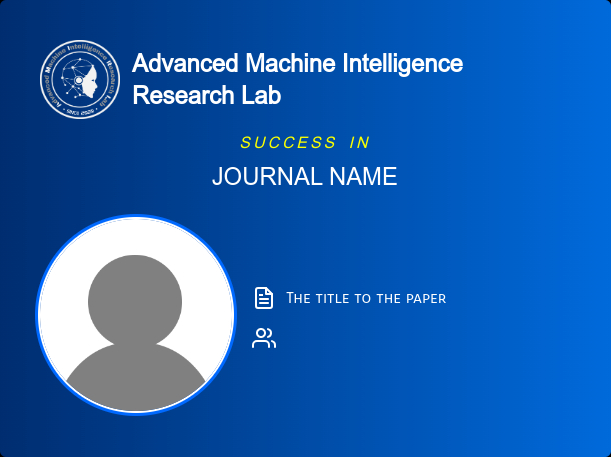
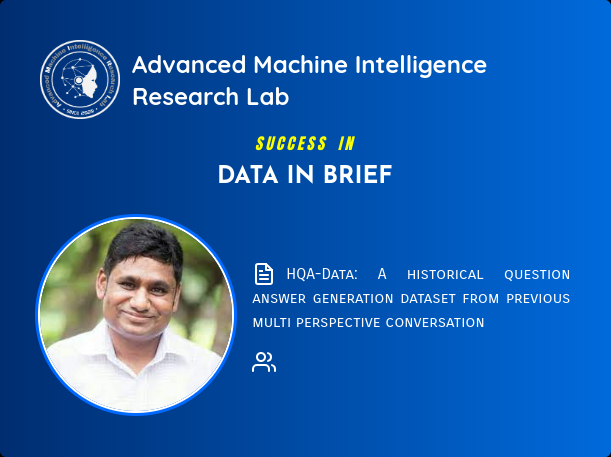
fixed image size after download

diff --git a/src/components/Generator.jsx b/src/components/Generator.jsx
@@ -51,10 +51,10 @@ const Generator = () => {
   };
   const downloadImage = async () => {
     try {
-      const dataUrl = await htmlToImage.toJpeg(socialTemplate.current);
+      const dataUrl = await htmlToImage.toPng(socialTemplate.current, { quality: 1.9 });
 
       const link = document.createElement("a");
-      link.download = "html-to-img.png";
+      link.download = `${jName}.png`;
       link.href = dataUrl;
       link.click();
     } catch (error) {
@@ -104,15 +104,15 @@ const Generator = () => {
             </div>
             {/* <div className="col-md-6 col-12 text-center">{authorDp && <img id="image-preview" alt="Preview" className="object-fit-cover rounded-circle" style={{ width: "200px", height: "200px", marginTop: "10px" }} />}</div> */}
           </div>
-          <div ref={socialTemplate}>
-            <div className="shadow-md rounded-md p-10 generated-image-wrap">
+          <div height={455} width={609}>
+            <div ref={socialTemplate} className="shadow-md rounded-md p-10 generated-image-wrap">
               <div className="amirlab-title">
                 <img src={logoCircle} width={80} alt="" />
                 <p className="text-white font-bold text-2xl ml-3">Advanced Machine Intelligence Research Lab</p>
               </div>
               <div className="success-in mt-3">
-                <div className="success-text">Success In</div>
-                <div className="journal-name mt-1">{jName ? jName : "Journal Name"}</div>
+                <div className="success-text border-b pb-2">Success In</div>
+                <div className="journal-name mt-2">{jName ? jName : "Journal Name"}</div>
               </div>
               <div className="flex flex-row items-center justify-center content-center gap-x-5 mt-6">
                 <div className="flex-1 author-dp w-2/5">

diff --git a/src/css/Generator.css b/src/css/Generator.css
@@ -19,8 +19,11 @@ input[type="radio"]:focus {
   background: -moz-linear-gradient(180deg, hsla(211, 100%, 43%, 1) 0%, hsla(216, 100%, 22%, 1) 100%);
   background: -webkit-linear-gradient(180deg, hsla(211, 100%, 43%, 1) 0%, hsla(216, 100%, 22%, 1) 100%);
   filter: progid: DXImageTransform.Microsoft.gradient( startColorstr="#006BDB", endColorstr="#002D6F", GradientType=1 );
-  max-width: 100%;
-  word-wrap: break-word;
+  max-width: fit-content;
+  max-height: fit-content;
+  /* word-wrap: break-word; */
+  /* min-width: 1920px;
+  min-height: 1080px; */
 }
 
 .amirlab-title {
